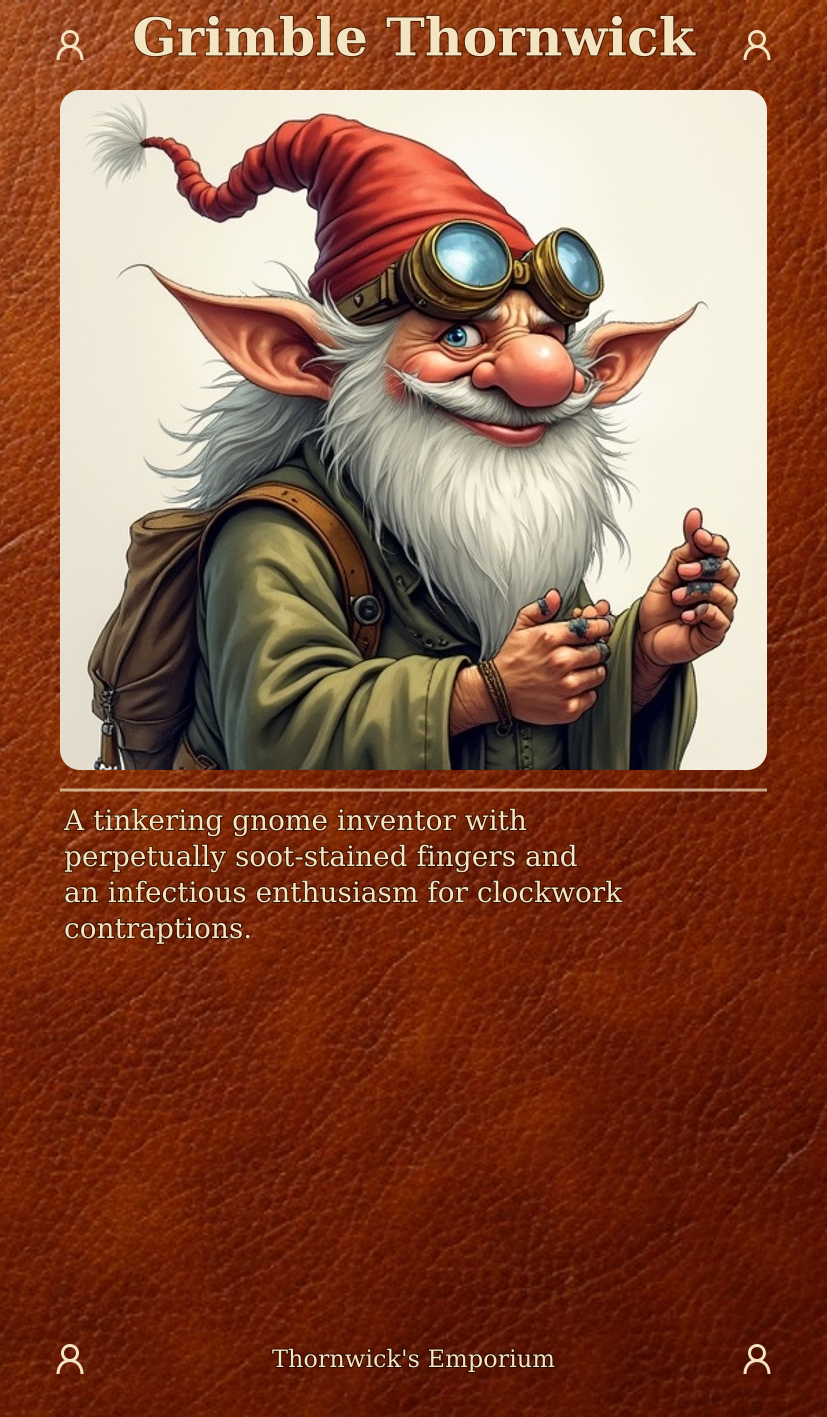
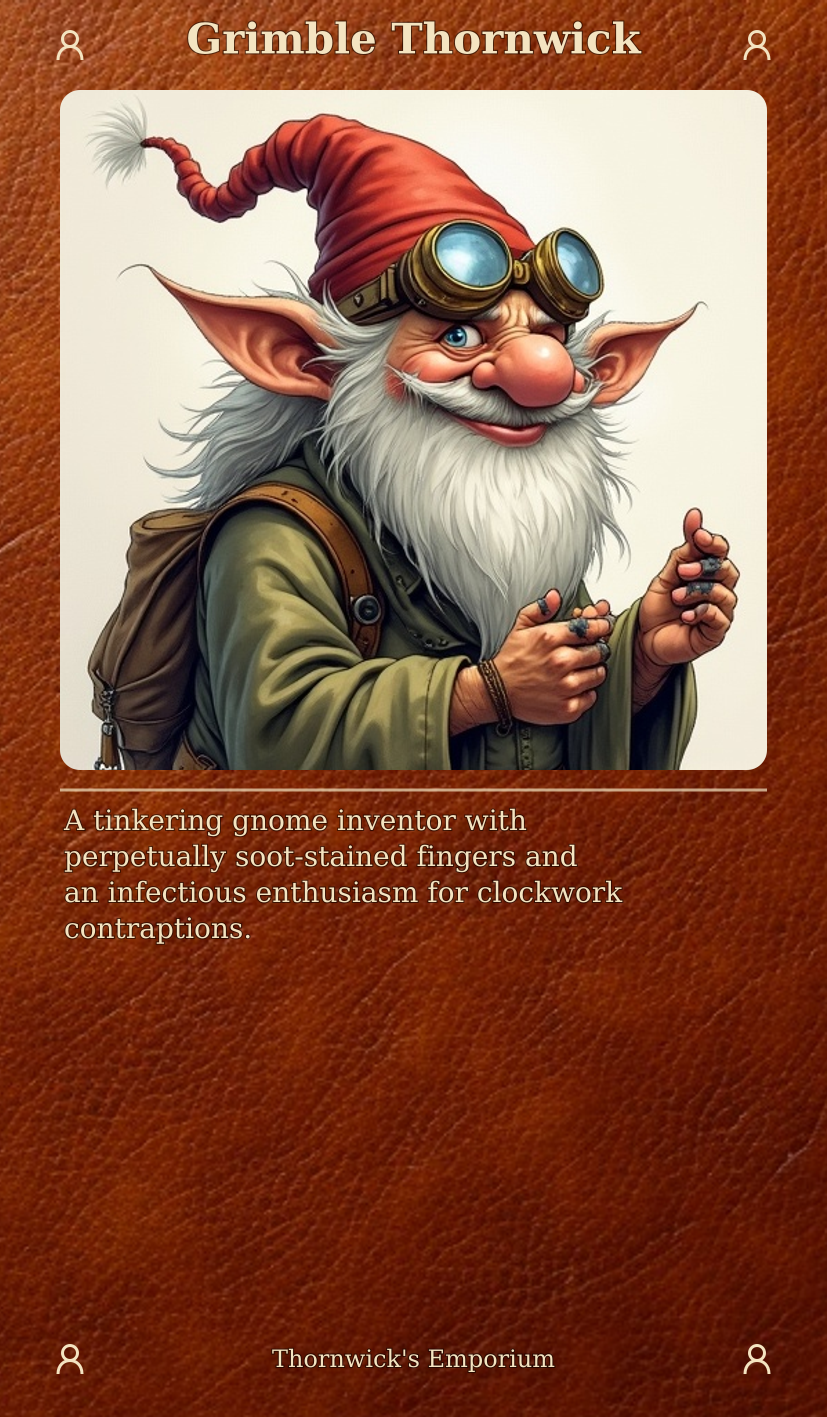
Fix title sizing with measured character limits
Measured actual character limits using worst-case chars (W) at 52px:
- 52px: ≤14 chars
- 42px: ≤17 chars
- 34px: ≤21 chars
- 28px: ≤26 chars

For 2-line titles, each line must fit within these limits.
Fallback truncation if nothing fits.

Added width measurement test variants (40-43) with W characters.

Changed region(s): [[0.1511, 0.0, 0.8464, 0.0621]]

diff --git a/packages/card-generator/scripts/generate-all-variants.js b/packages/card-generator/scripts/generate-all-variants.js
@@ -50,6 +50,11 @@ const CARD_SAMPLES = {
     desc: 'An ancient wizard of immense power who has lived for millennia through forbidden time magic. His tower stands at the crossroads of three ley lines, drawing arcane energy from the very fabric of reality. Those who seek his counsel must first solve three riddles, survive the maze of living shadows, and prove their worth in a battle of wits against his enchanted chess set. Many have tried; few have succeeded.',
     footer: "Tower of Eternal Mysteries, Northwest of the Crystal Lake"
   },
+  // Width measurement tests at 52px (find where overlap starts)
+  test15: { name: 'WWWWWWWWWWWWWWW', desc: 'Test 15 wide chars', footer: 'Test' }, // 15 chars
+  test17: { name: 'WWWWWWWWWWWWWWWWW', desc: 'Test 17 wide chars', footer: 'Test' }, // 17 chars
+  test19: { name: 'WWWWWWWWWWWWWWWWWWW', desc: 'Test 19 wide chars', footer: 'Test' }, // 19 chars
+  test21: { name: 'WWWWWWWWWWWWWWWWWWWWW', desc: 'Test 21 wide chars', footer: 'Test' }, // 21 chars
   // Category-specific samples
   location: {
     name: 'The Gilded Tankard',
@@ -117,67 +122,59 @@ function textureOverlaySvg(opts = {}) {
   const cardData = opts.cardData || CARD;
   const iconSvg = opts.iconSvg || ICON_SVG;
 
-  // Auto-scale title: fit with default font, smaller if needed, 2 lines if needed
-  // Max width for title = card width minus icon areas (icons at B+12 to B+48 on each side)
-  const titleMaxWidth = W - 2 * (B + 48 + 10); // ~620px usable
-  const avgCharWidth = 0.55; // approximate ratio for serif bold
-  const sizes = [52, 42, 34, 28];
+  // Title: use SVG textLength to constrain width - no estimation needed
+  // Available width between header icons
+  const titleMaxWidth = W - 2 * (B + 48 + 10); // ~631px
 
-  const fitsAtSize = (text, size) => text.length * size * avgCharWidth <= titleMaxWidth;
-  const maxCharsAtSize = (size) => Math.floor(titleMaxWidth / (size * avgCharWidth));
+  // For 2-line titles: only 34px and 28px fit in 90px header
+  // 2 lines @ 34px = ~75px, 2 lines @ 28px = ~62px
+  const maxTwoLineSize = 34;
 
   // Find best 2-line split (minimize the longer line's length)
   const bestSplit = (name) => {
     const words = name.split(' ');
-    if (words.length < 2) return [name]; // Can't split single word
+    if (words.length < 2) return null;
     let best = null, bestMax = Infinity;
     for (let i = 1; i < words.length; i++) {
       const line1 = words.slice(0, i).join(' ');
       const line2 = words.slice(i).join(' ');
       const maxLen = Math.max(line1.length, line2.length);
-      if (maxLen < bestMax) {
-        bestMax = maxLen;
-        best = [line1, line2];
-      }
+      if (maxLen < bestMax) { bestMax = maxLen; best = [line1, line2]; }
     }
     return best;
   };
 
-  // Truncate text to fit with ellipsis
-  const truncateToFit = (text, size) => {
-    const maxChars = maxCharsAtSize(size) - 1; // -1 for ellipsis
-    return text.length <= maxChars + 1 ? text : text.slice(0, maxChars) + '…';
-  };
+  const name = cardData.name;
+  const split = bestSplit(name);
 
   let autoTitleSize = titleSize;
-  let titleLines = [cardData.name];
-  const split = bestSplit(cardData.name);
+  let titleLines = [name];
 
-  // Try options in priority order: larger fonts preferred, single line slightly preferred at same size
-  // 1-line@52, 1-line@42, 2-line@52, 1-line@34, 2-line@42, 1-line@28, 2-line@34, 2-line@28, truncate
-  const fits1 = (size) => fitsAtSize(cardData.name, size);
-  const fits2 = (size) => split && split.length === 2 && fitsAtSize(split[0], size) && fitsAtSize(split[1], size);
-
-  // Constraints:
-  // - Width: title must fit within ~620px (between header icons)
-  // - Height: 2-line titles must fit in 90px header (only 34px and 28px work for 2 lines)
-  // Priority: larger font preferred, single line preferred at same size
-  if (fits1(52)) {
-    autoTitleSize = 52; titleLines = [cardData.name];
-  } else if (fits1(42)) {
-    autoTitleSize = 42; titleLines = [cardData.name];
-  } else if (fits1(34)) {
-    autoTitleSize = 34; titleLines = [cardData.name];
-  } else if (fits2(34)) {
-    autoTitleSize = 34; titleLines = split;  // 2 lines at 34px fits in 90px header
-  } else if (fits1(28)) {
-    autoTitleSize = 28; titleLines = [cardData.name];
-  } else if (fits2(28)) {
-    autoTitleSize = 28; titleLines = split;  // 2 lines at 28px fits in 90px header
+  // Allow forcing a specific size for measurement tests
+  if (opts.forceTitleSize) {
+    autoTitleSize = opts.forceTitleSize;
+    titleLines = [name];
   } else {
-    // Fallback: truncate at smallest size
-    autoTitleSize = 28;
-    titleLines = [truncateToFit(cardData.name, 28)];
+    // Measured limits (worst-case chars like W at 52px fit ~14-15)
+    // Single line: 52px ≤14 chars, 42px ≤17 chars, 34px ≤21 chars, 28px ≤26 chars
+    // For 2 lines: each line must fit, so use same limits per line
+    if (name.length <= 14) {
+      autoTitleSize = 52; titleLines = [name];
+    } else if (name.length <= 17) {
+      autoTitleSize = 42; titleLines = [name];
+    } else if (name.length <= 21) {
+      autoTitleSize = 34; titleLines = [name];
+    } else if (split && Math.max(split[0].length, split[1].length) <= 21) {
+      autoTitleSize = 34; titleLines = split;
+    } else if (name.length <= 26) {
+      autoTitleSize = 28; titleLines = [name];
+    } else if (split && Math.max(split[0].length, split[1].length) <= 26) {
+      autoTitleSize = 28; titleLines = split;
+    } else {
+      // Truncate
+      autoTitleSize = 28;
+      titleLines = [name.slice(0, 25) + '…'];
+    }
   }
 
   // Truncate footer if too long (max ~40 chars for single line)
@@ -286,7 +283,7 @@ function textureOverlaySvg(opts = {}) {
   // Generate title SVG (1 or 2 lines, vertically centered in header)
   const titleLineHeight = autoTitleSize * 1.1;
   const titleBlockHeight = titleLines.length * titleLineHeight;
-  const titleStartY = headerH/2 - titleBlockHeight/2 + autoTitleSize * 0.75; // baseline of first line
+  const titleStartY = headerH/2 - titleBlockHeight/2 + autoTitleSize * 0.75;
   const titleSvg = titleLines.map((line, i) =>
     `<text x="${W/2}" y="${titleStartY + i * titleLineHeight}" font-family="${fontFamily}" font-size="${autoTitleSize}" font-weight="bold" fill="${textColor}" text-anchor="middle" ${textStroke}>${esc(line)}</text>`
   ).join('\n    ');
@@ -701,6 +698,56 @@ const variants = [
         textTint: 'none', textBorder: 'icons', portraitCorners: 'rounded',
         cardData: CARD_SAMPLES.faction,
         iconSvg: CATEGORY_ICONS.faction
+      });
+      await renderTextureCard(svg, p, o, texturePath, { roundedPortrait: true, cornerRadius: 20 });
+    }
+  },
+
+  // === WIDTH MEASUREMENT TESTS (all at 52px to find limit) ===
+  {
+    id: '40-width-15W',
+    desc: 'Width test: 15 W chars at 52px',
+    gen: async (p, o, texturePath) => {
+      const svg = textureOverlaySvg({
+        textTint: 'none', textBorder: 'icons', portraitCorners: 'rounded',
+        cardData: CARD_SAMPLES.test15,
+        forceTitleSize: 52
+      });
+      await renderTextureCard(svg, p, o, texturePath, { roundedPortrait: true, cornerRadius: 20 });
+    }
+  },
+  {
+    id: '41-width-17W',
+    desc: 'Width test: 17 W chars at 52px',
+    gen: async (p, o, texturePath) => {
+      const svg = textureOverlaySvg({
+        textTint: 'none', textBorder: 'icons', portraitCorners: 'rounded',
+        cardData: CARD_SAMPLES.test17,
+        forceTitleSize: 52
+      });
+      await renderTextureCard(svg, p, o, texturePath, { roundedPortrait: true, cornerRadius: 20 });
+    }
+  },
+  {
+    id: '42-width-19W',
+    desc: 'Width test: 19 W chars at 52px',
+    gen: async (p, o, texturePath) => {
+      const svg = textureOverlaySvg({
+        textTint: 'none', textBorder: 'icons', portraitCorners: 'rounded',
+        cardData: CARD_SAMPLES.test19,
+        forceTitleSize: 52
+      });
+      await renderTextureCard(svg, p, o, texturePath, { roundedPortrait: true, cornerRadius: 20 });
+    }
+  },
+  {
+    id: '43-width-21W',
+    desc: 'Width test: 21 W chars at 52px',
+    gen: async (p, o, texturePath) => {
+      const svg = textureOverlaySvg({
+        textTint: 'none', textBorder: 'icons', portraitCorners: 'rounded',
+        cardData: CARD_SAMPLES.test21,
+        forceTitleSize: 52
       });
       await renderTextureCard(svg, p, o, texturePath, { roundedPortrait: true, cornerRadius: 20 });
     }
